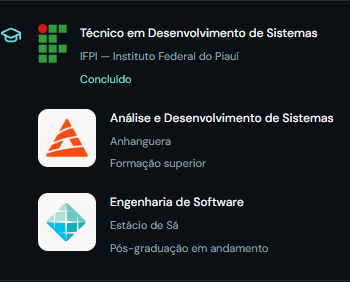
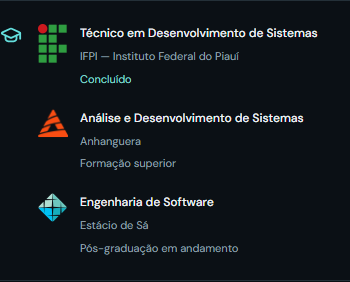
Update Site source

Changed region(s): [[0.0857, 0.6809, 0.7714, 0.9078], [0.0857, 0.3688, 0.9714, 0.5957]]

diff --git a/src/styles.css b/src/styles.css
@@ -324,10 +324,10 @@ svg { flex-shrink:0; }
 .education .technical-education span { line-height:1.6; }
 .education .education-completed { color:#82ded1; }
 
-.university-education { display:flex; align-items:flex-start; gap:14px; margin-top:20px; }
-.university-logo { flex:0 0 58px; display:flex; align-items:center; justify-content:center; height:58px; padding:8px; background:#f7f7f7; border-radius:10px; }
-.university-symbol { width:42px; height:40px; overflow:hidden; flex-shrink:0; }
-.university-symbol img { display:block; width:auto; max-width:none; height:40px; }
+.university-education { display:flex; align-items:flex-start; gap:12px; margin-top:20px; }
+.university-logo { flex:0 0 30px; display:flex; align-items:flex-start; justify-content:center; height:40px; padding:0; background:transparent; }
+.university-symbol { width:30px; height:30px; overflow:hidden; flex-shrink:0; }
+.university-symbol img { display:block; width:auto; max-width:none; height:29px; }
 .education .university-education strong { margin:0; line-height:1.6; }
 .education .university-education span { line-height:1.6; }
 
